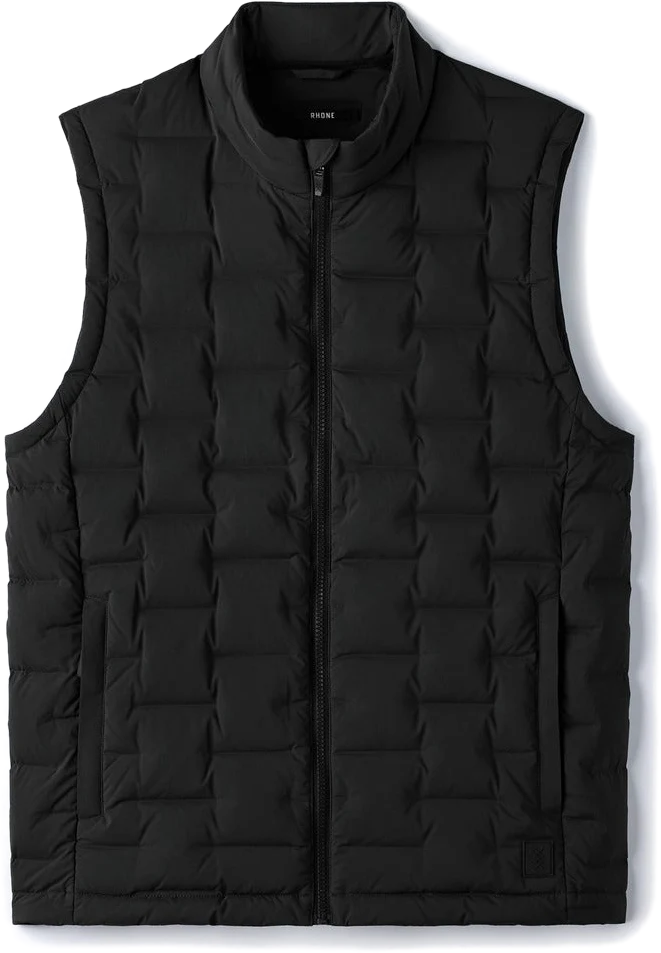
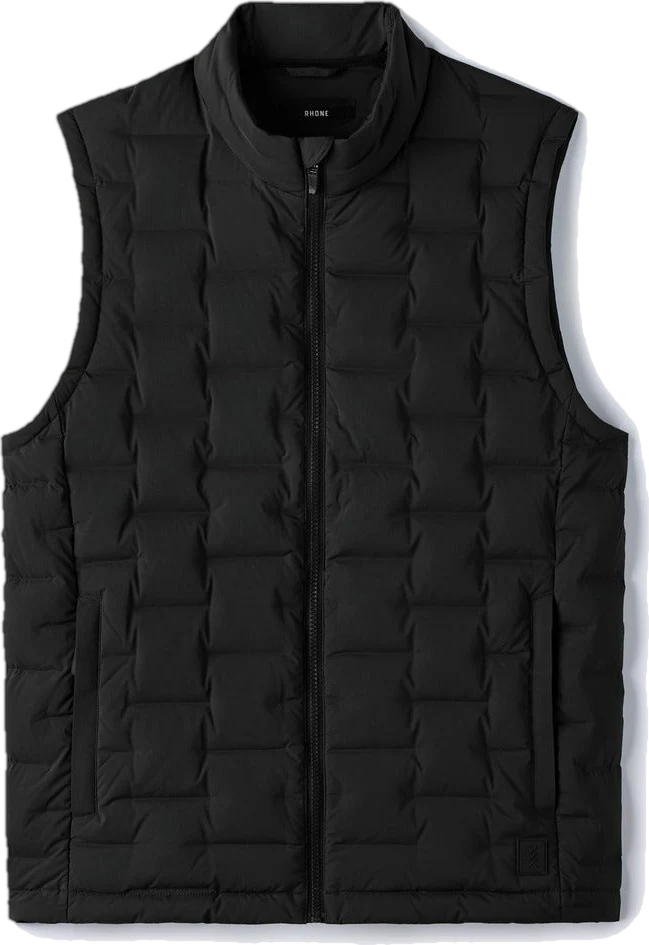
PDP opens on an in-stock color, cart shows the chosen color's photo, cleaner vest cutout
- getPdpInitialSelection seeds a color that ships now when no color is linked
- Cart lines use the variant image from Shopify before the product's first image
- Re-matted Voyage vest flat lay (no white fringe); editorial header em dash

diff --git a/tests/ui/winterEdit.test.ts b/tests/ui/winterEdit.test.ts
@@ -64,6 +64,19 @@ describe("PDP initial selection", () => {
     expect(sel.Size).toBeUndefined();
   });
 
+  it("opens on a color that ships now when the first color is restocking", () => {
+    const product = {
+      ...sizeColorProduct,
+      variants: [
+        { id: "gid://shopify/ProductVariant/7", availableForSale: true, currentlyNotInStock: true, selectedOptions: [{ name: "Color", value: "Ember" }, { name: "Size", value: "M" }] },
+        { id: "gid://shopify/ProductVariant/8", availableForSale: true, currentlyNotInStock: false, selectedOptions: [{ name: "Color", value: "Black" }, { name: "Size", value: "L" }] },
+      ],
+      options: [{ name: "Color", values: ["Ember", "Black"] }, { name: "Size", values: ["M", "L"] }],
+    } as unknown as Parameters<typeof getPdpInitialSelection>[0];
+    expect(getPdpInitialSelection(product)).toEqual({ Color: "Black" });
+    expect(getPdpInitialSelection(product, { Color: "Ember" })).toEqual({ Color: "Ember" });
+  });
+
   it("keeps a size the link explicitly named", () => {
     const sel = getPdpInitialSelection(sizeColorProduct, { Color: "Navy", Size: "L" });
     expect(sel).toMatchObject({ Color: "Navy", Size: "L" });

diff --git a/src/lib/productVariants.ts b/src/lib/productVariants.ts
@@ -291,10 +291,18 @@ export function getPdpInitialSelection(
   product: VariantBearingProduct,
   preferredSelection: ProductVariantSelection = {}
 ): ProductVariantSelection {
-  const selection = getInitialVariantSelection(product, preferredSelection);
+  const variants = getProductVariants(product);
+  const hasPreference = Object.keys(preferredSelection).length > 0;
+  // With no color in the link, open on a color that ships now rather than
+  // a restocking one, when the product has both.
+  const shipsNow = hasPreference ? undefined : variants.find((v) => v.availableForSale && !v.currentlyNotInStock);
+  const seeded = shipsNow
+    ? withoutSizeOptions(getVariantSelection(shipsNow))
+    : preferredSelection;
+  const selection = getInitialVariantSelection(product, seeded);
   for (const option of getProductOptionGroups(product)) {
     if (!SIZE_OPTION_PATTERN.test(option.name) || option.values.length < 2) continue;
-    if (preferredSelection[option.name]) continue;
+    if (hasPreference && preferredSelection[option.name]) continue;
     delete selection[option.name];
   }
   return selection;

diff --git a/src/lib/shopify.ts b/src/lib/shopify.ts
@@ -282,6 +282,7 @@ interface RawCartLine {
     id: string;
     title?: string;
     price: { amount: string; currencyCode: string };
+    image?: { url: string } | null;
     product: {
       handle: string;
       title: string;
@@ -414,7 +415,8 @@ function mapCart(raw: RawCart): ShopifyCart {
         brand: line.merchandise.product.vendor,
         price: line.cost && line.quantity > 0 ? parseFloat(line.cost.totalAmount.amount) / line.quantity : retailPrice,
         retailPrice,
-        image: line.merchandise.product.images.nodes[0]?.url,
+        // The chosen color's photo, not the product's first (often another color).
+        image: line.merchandise.image?.url ?? line.merchandise.product.images.nodes[0]?.url,
         quantity: line.quantity,
       };
     }),
@@ -487,6 +489,7 @@ const CART_LINE_FIELDS = `
       id
       title
       price { amount currencyCode }
+      image { url }
       product {
         handle
         title

diff --git a/src/app/lp/editorial/EditorialHeader.tsx b/src/app/lp/editorial/EditorialHeader.tsx
@@ -240,7 +240,7 @@ export function EditorialHeader({ brands, collections }: EditorialHeaderProps) {
                     onClick={() => jumpTo("editorial-top")}
                     className="w-full text-left py-2.5 text-[15px] text-forest hover:text-forest-dark transition-colors border-b border-charcoal/[0.05]"
                   >
-                    The Feed <span className="text-charcoal/40">— all recent</span>
+                    The Feed <span className="text-charcoal/40">· all recent</span>
                   </button>
                 </li>
                 {(tab === "brand" ? brands : collections).map((name) => (
